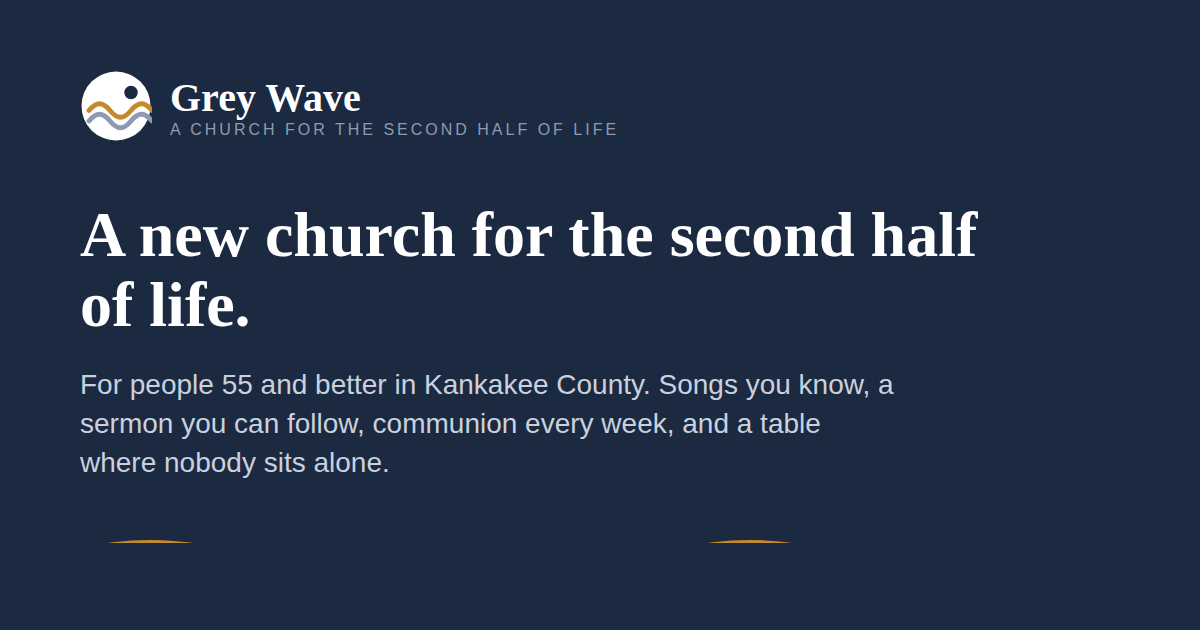
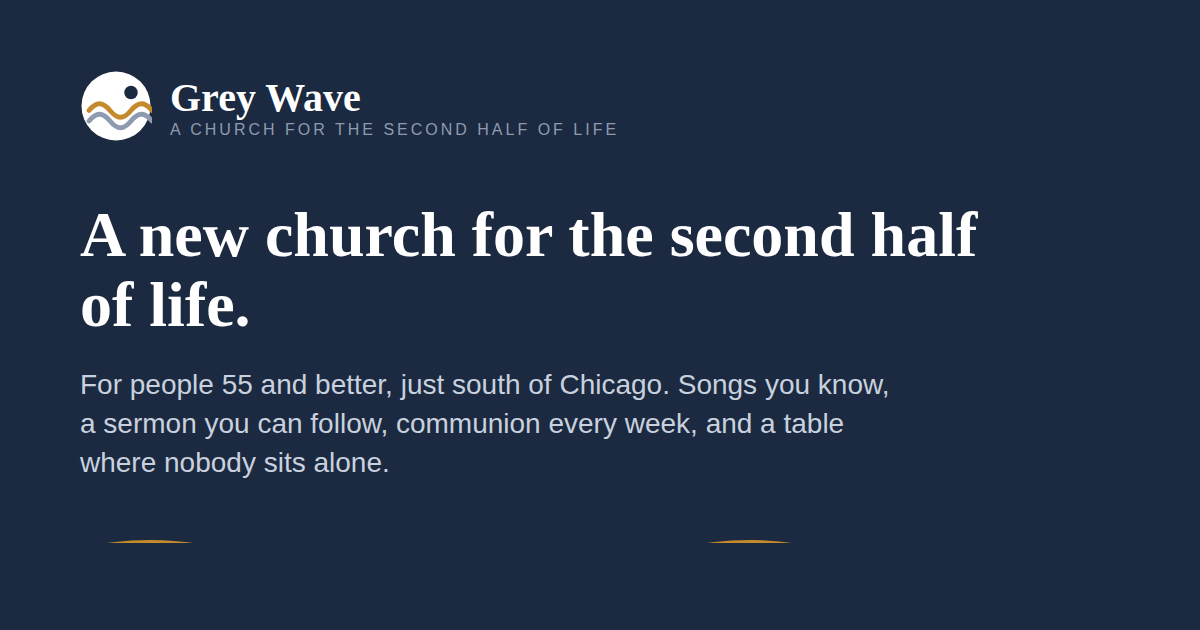
Grey Wave: say "south of Chicago" instead of Kankakee County
Andrew's note: Lance is planting about 20 minutes south of Chicago. Page
copy, meta tags and share image now say south of Chicago / south suburbs.
The Bourbonnais venue for the preview season stays (it is the only Adventure
Christian Church) and README/RESEARCH flag it for confirmation with Lance.

Claude-Session: https://claude.ai/code/session_01HSBocD85HhTGptmU2JQFEL

Changed region(s): [[0.0617, 0.6635, 0.7092, 0.6937], [0.3083, 0.573, 0.74, 0.6333]]

diff --git a/grey-wave/index.html b/grey-wave/index.html
@@ -3,12 +3,12 @@
 <head>
 <meta charset="utf-8">
 <meta name="viewport" content="width=device-width, initial-scale=1">
-<title>Grey Wave Church — A new church for the second half of life · Bourbonnais, IL</title>
-<meta name="description" content="Grey Wave is a new church in Kankakee County built for people 55 and better. Familiar songs, a sermon you can follow, communion every week, and a table where nobody sits alone. Preview season now gathering in Bourbonnais, IL.">
+<title>Grey Wave Church — A new church for the second half of life · South of Chicago</title>
+<meta name="description" content="Grey Wave is a new church just south of Chicago built for people 55 and better. Familiar songs, a sermon you can follow, communion every week, and a table where nobody sits alone. Preview season now gathering this fall.">
 <meta name="theme-color" content="#1B2A41">
 <meta property="og:type" content="website">
 <meta property="og:title" content="Grey Wave Church — a new church for the second half of life">
-<meta property="og:description" content="A new church in Bourbonnais, IL built for people 55 and better. Preview season now gathering. Come as you are, bring a friend.">
+<meta property="og:description" content="A new church south of Chicago built for people 55 and better. Preview season now gathering. Come as you are, bring a friend.">
 <meta property="og:image" content="assets/og-grey-wave.png">
 <link rel="icon" href="assets/favicon.svg" type="image/svg+xml">
 <link rel="preconnect" href="https://fonts.googleapis.com">
@@ -258,7 +258,7 @@
     <div>
       <span class="badge"><i></i> Now gathering · Preview season Sept 13 – Nov 29, 2026</span>
       <h1>A new church for the second half of life.</h1>
-      <p class="lead">Grey Wave is a church in Kankakee County built from the ground up for people 55 and better. Songs you know. A sermon you can follow. Communion every week. A table where nobody sits alone.</p>
+      <p class="lead">Grey Wave is a new church in Chicago's south suburbs, built from the ground up for people 55 and better. Songs you know. A sermon you can follow. Communion every week. A table where nobody sits alone.</p>
       <div class="btn-row">
         <a class="btn btn-primary" href="#season">
           <svg viewBox="0 0 24 24" fill="none" stroke="currentColor" stroke-width="2.2" aria-hidden="true"><rect x="3" y="5" width="18" height="16" rx="2"/><path d="M3 10h18M8 3v4M16 3v4"/></svg>
@@ -293,7 +293,7 @@
     <div class="narrow">
       <span class="kicker">Why a church for seniors?</span>
       <h2>The biggest wave in America's history is grey. Almost nobody is planting churches for it.</h2>
-      <p class="lead">Every day, about 10,000 Americans turn 65. By 2030, every Baby Boomer will be past that line. It is the largest, fastest-growing group of people in the country, and in Kankakee County it is your neighbors, your card club, your coffee crowd.</p>
+      <p class="lead">Every day, about 10,000 Americans turn 65. By 2030, every Baby Boomer will be past that line. It is the largest, fastest-growing group of people in the country, and in the south suburbs it is your neighbors, your card club, your coffee crowd.</p>
       <p>Meanwhile, nearly every new church is designed for young families, with the lights, the volume, and the pace to match. Older adults get a "senior ministry" on Tuesday morning, if they get anything. Many quietly stop coming. Many more never started.</p>
       <p><strong>Grey Wave is not a program inside a church. It is a church.</strong> Built for you, led with you, and aimed at the people in your life who think God is finished with them. He is not.</p>
     </div>
@@ -430,7 +430,7 @@
     <div class="narrow">
       <span class="kicker">Preview season · Fall 2026</span>
       <h2>Twelve Sundays to find out if this is for you.</h2>
-      <p class="lead">From September 13 through November 29 we are meeting every Sunday at Adventure Christian Church in Bourbonnais. Think of it as a trial run: come once, come every week, bring the friend who swore off church in 1987.</p>
+      <p class="lead">From September 13 through November 29 we are meeting every Sunday at Adventure Christian Church in Bourbonnais, about an hour south of the Loop and a short drive from the south suburbs. Think of it as a trial run: come once, come every week, bring the friend who swore off church in 1987.</p>
       <p>Our first Sunday, twelve people showed up. One of them told Lance years ago, "If you ever start a church, I'll come." He came.</p>
     </div>
     <table>
@@ -479,7 +479,7 @@
     <div class="narrow">
       <span class="kicker">For pastors and partners</span>
       <h2>One church is the start. The wave is the point.</h2>
-      <p class="lead">If Grey Wave works in Bourbonnais, it can work in every county with a Walmart and a senior center. We are documenting everything so the next one is easier to plant than this one.</p>
+      <p class="lead">If Grey Wave works south of Chicago, it can work in every county with a Walmart and a senior center. We are documenting everything so the next one is easier to plant than this one.</p>
       <p>Grey Wave is a project of Ignite Church Planting, whose vision is ten church-planting clusters across Chicagoland, each producing a new church every three years. We would love to add "a church for seniors" to every cluster's list. If you lead a church with a large, faithful, aging congregation and a small budget line for them, let's talk.</p>
       <div class="btn-row">
         <a class="btn btn-gold" href="mailto:lance@ignitechurchplanting.com?subject=Grey%20Wave%20partnership">Talk to Lance about partnering</a>
@@ -544,7 +544,7 @@
           <svg viewBox="0 0 48 48" aria-hidden="true"><circle cx="24" cy="24" r="23" fill="#fff"/><path d="M6 27c5-6 9-6 14 0s9 6 14 0 9-6 14 0" fill="none" stroke="#C48A2B" stroke-width="3.2" stroke-linecap="round"/><path d="M6 34c5-6 9-6 14 0s9 6 14 0 9-6 14 0" fill="none" stroke="#8E9AAF" stroke-width="3.2" stroke-linecap="round"/><circle cx="34" cy="15" r="4.5" fill="#1B2A41"/></svg>
           <span><b style="color:#fff">Grey Wave</b><small style="color:#8E9AAF">A church for the second half of life</small></span>
         </a>
-        <p style="margin-top:1rem;color:#C9D1DE">An independent Christian church for people 55 and better, gathering in Bourbonnais, Illinois.</p>
+        <p style="margin-top:1rem;color:#C9D1DE">An independent Christian church for people 55 and better, gathering south of Chicago.</p>
         <div class="partner">
           <svg class="flame" viewBox="0 0 24 24" fill="currentColor" aria-hidden="true"><path d="M12 2c1 4 5 5.5 5 10a5 5 0 0 1-10 0c0-2 1-3 1-3s.5 2 2 2c0-4 2-6 2-9z"/></svg>
           <span>A project of <a href="https://www.ignitechurchplanting.com/" target="_blank" rel="noopener">Ignite Church Planting</a>, starting churches in Chicagoland since 1919.</span>
@@ -569,7 +569,7 @@
         </ul>
       </div>
     </div>
-    <div class="legal">© 2026 Grey Wave Church · Bourbonnais, Illinois · Draft site</div>
+    <div class="legal">© 2026 Grey Wave Church · South suburbs of Chicago · Draft site</div>
   </div>
 </footer>
 

diff --git a/grey-wave/README.md b/grey-wave/README.md
@@ -1,7 +1,11 @@
 # Grey Wave Church — draft website
 
 A single static page (`index.html`, inline CSS/JS, no build) for Lance Hurley's
-new church plant for people 55+ in Bourbonnais / Kankakee County, IL.
+new church plant for people 55+ south of Chicago.
+Andrew's note: Lance lives about 20 minutes south of Chicago and is planting
+there. Published sources put him in Bourbonnais, and the preview season venue
+(Adventure Christian Church, 70 Ken Hayes Dr, Bourbonnais) comes from Andrew's
+meeting notes. Confirm the venue and town with Lance before launch.
 Working name: **Grey Wave**. Domain is still unconfirmed (see RESEARCH.md).
 
 ## Deploy on Vercel
@@ -20,6 +24,10 @@ under Project → Domains.
 ## Before it goes live
 
 Search the page for `[TIME]` and replace with the Sunday service time. Also:
+
+- Confirm the meeting location. The page names Adventure Christian Church in
+  Bourbonnais in the hero card, schedule, contact block and footer. If the
+  plant meets somewhere in the south suburbs instead, replace all four.
 
 - Replace the photo placeholder in the "Our pastor" section with a real photo
   of Lance and Darla (`assets/lance-darla.jpg`, ~1200px wide).

diff --git a/grey-wave/RESEARCH.md b/grey-wave/RESEARCH.md
@@ -39,6 +39,13 @@ From Andrew's Granola meeting notes (Sept 2026):
 
 ## Not verified / proposals (flagged on the page or in README)
 
+- **Where the church meets.** Andrew says Lance lives ~20 minutes south of
+  Chicago and is planting there. Public sources (ignitethriving.org, FACC bio)
+  say Bourbonnais, which is closer to an hour south. The only Adventure
+  Christian Church is in Bourbonnais. The page now says "south of Chicago" /
+  "south suburbs" and keeps the Bourbonnais address as the preview venue.
+  Confirm with Lance.
+
 - **Name "Grey Wave" and the domain.** greywavechurchplanting.org/.com,
   graywave…, greywavechurch.org/.com all fail DNS from this sandbox. Nothing
   indexed under that name. Confirm spelling (grey vs gray) with Lance.
